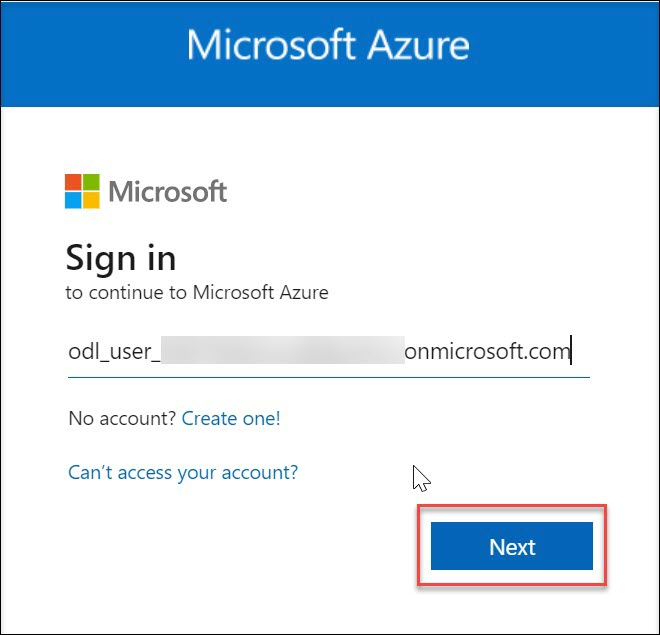
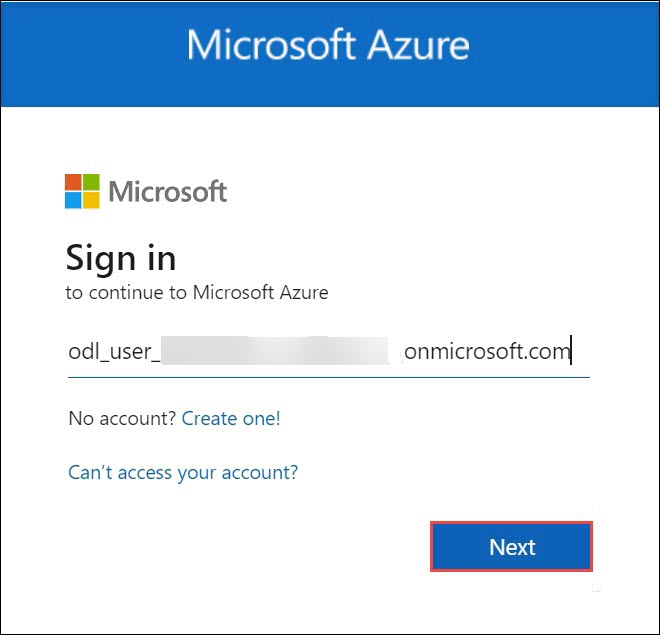
Updated

Changed region(s): [[0.6061, 0.748, 0.9394, 0.9575], [0.5758, 0.5386, 0.6061, 0.5685]]

diff --git a/Labfiles/Getting-started.md b/Labfiles/Getting-started.md
@@ -37,13 +37,15 @@ Feel free to start, stop, or restart your virtual machine as needed from the **R
 1. On the **Sign in to Microsoft Azure** blade, you will see a login screen, in which enter the following email/username and then click on **Next**.  
 
    * **Azure Username/Email**:  <inject key="AzureAdUserEmail"></inject> 
+
+   ![](../media/g1.jpg)
+
    * **Azure Password**:  <inject key="AzureAdUserPassword"></inject>
 
-        **Note**: Refer to the **Environment Details** tab for any other lab credentials/details.
-
-    ![](../media/g1.jpg)
-  
     ![](../media/g2.jpg)
+
+     >**Note**: Refer to the **Environment Details** tab for any other lab credentials/details.
+
   
 1. If you see the pop-up like below, click **Skip for now(14 days until this is required)**.
 
